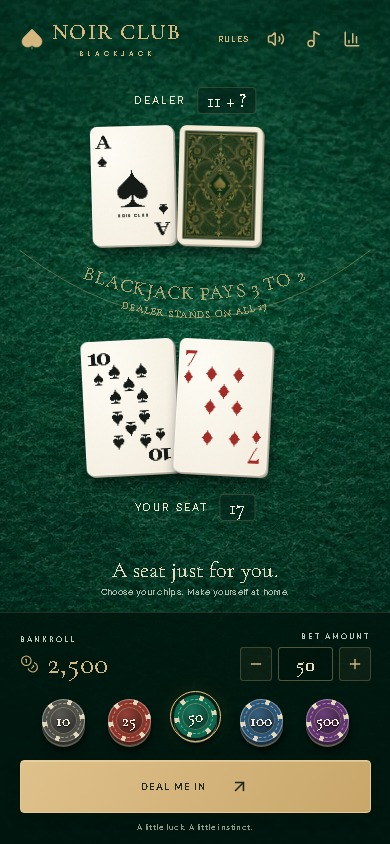
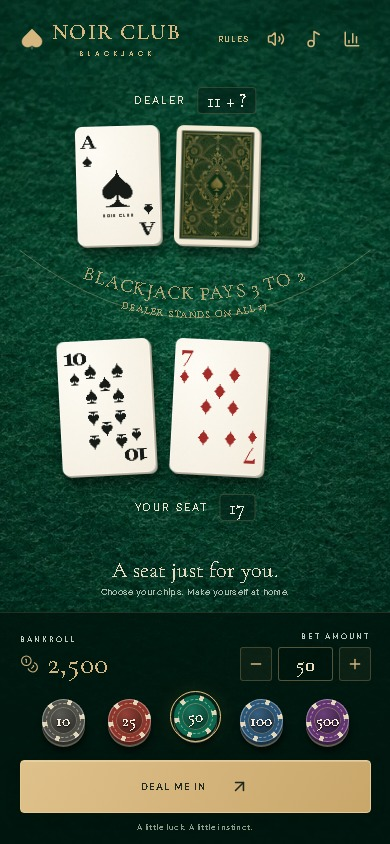
Render one card face during flips for reliable Safari support

Changed region(s): [[0.1846, 0.1232, 0.6769, 0.3081], [0.1231, 0.4005, 0.5231, 0.5853], [0.4923, 0.4005, 0.7077, 0.5853]]

diff --git a/src/components/Cards.tsx b/src/components/Cards.tsx
@@ -128,6 +128,25 @@ export function PlayingCard({
   delay?: number;
   animate?: boolean;
 }) {
+  const [showBack, setShowBack] = useState(Boolean(hidden));
+  const [flipping, setFlipping] = useState(false);
+  const previousHidden = useRef(Boolean(hidden));
+  useEffect(() => {
+    const nextHidden = Boolean(hidden);
+    if (nextHidden === previousHidden.current) return;
+    previousHidden.current = nextHidden;
+    if (window.matchMedia('(prefers-reduced-motion: reduce)').matches) {
+      setShowBack(nextHidden);
+      return;
+    }
+    setFlipping(true);
+    const midpoint = setTimeout(() => setShowBack(nextHidden), 260);
+    const end = setTimeout(() => setFlipping(false), 520);
+    return () => {
+      clearTimeout(midpoint);
+      clearTimeout(end);
+    };
+  }, [hidden]);
   return (
     <div
       className={`playing-card ${animate ? 'arriving' : ''}`}
@@ -135,9 +154,8 @@ export function PlayingCard({
       role="img"
       aria-label={hidden ? 'Face-down card' : `${card.rank} of ${card.suit}`}
     >
-      <div className={`card-flipper ${hidden ? 'is-hidden' : ''}`}>
-        <Face card={card} />
-        <div className="card-back" />
+      <div className={`card-flipper ${flipping ? 'is-flipping' : ''}`}>
+        {showBack ? <div className="card-back" /> : <Face card={card} />}
       </div>
     </div>
   );

diff --git a/tests/game.spec.ts b/tests/game.spec.ts
@@ -78,6 +78,8 @@ test('deal, double, settlement, tracker, CSV and reload persistence', async ({ p
   await expect(page.getByRole('button', { name: 'Double', exact: true })).toBeEnabled();
   await page.getByRole('button', { name: 'Double', exact: true }).click();
   await expect(page.locator('.app')).toHaveAttribute('data-phase', 'settled');
+  await expect(page.locator('.dealer-hand .card-back')).toHaveCount(0);
+  await expect(page.locator('.dealer-hand .card-face')).toHaveCount(2);
   expect((await saved(page)).balance).toBe(2600);
   await tracker(page);
   await expect(page.getByRole('dialog')).toBeVisible();
@@ -100,6 +102,9 @@ test('split hands remain above felt and inside the safe table during animation',
   await monitorCards(page);
   await page.getByRole('button', { name: 'Deal me in' }).click();
   await assertMotion(page);
+  await expect(page.locator('.player-hand .card-face')).toHaveCount(2);
+  await expect(page.locator('.player-hand .card-back')).toHaveCount(0);
+  await expect(page.locator('.dealer-hand .card-back')).toHaveCount(1);
   await monitorCards(page);
   await page.getByRole('button', { name: 'Split', exact: true }).click();
   await assertMotion(page);

diff --git a/src/styles.css b/src/styles.css
@@ -290,19 +290,25 @@ nav {
   width: 100%;
   height: 100%;
   position: relative;
-  transform-style: preserve-3d;
-  transition: transform 0.55s cubic-bezier(0.25, 0.6, 0.25, 1);
 }
-.card-flipper.is-hidden {
-  transform: rotateY(180deg);
+.card-flipper.is-flipping {
+  animation: reveal-card 520ms ease-in-out;
+}
+@keyframes reveal-card {
+  0%,
+  100% {
+    transform: scaleX(1);
+  }
+  49%,
+  51% {
+    transform: scaleX(0.025);
+  }
 }
 .card-face,
 .card-back {
   position: absolute;
   inset: 0;
   border-radius: 7px;
-  backface-visibility: hidden;
-  -webkit-backface-visibility: hidden;
   box-shadow:
     inset 0 0 0 1px #fff7,
     1px 1px 0 #b9b4a5,
@@ -326,7 +332,6 @@ nav {
   color: #a32c28;
 }
 .card-back {
-  transform: rotateY(180deg);
   border: 5px solid #f4ebd7;
   background: #063b2c url('/assets/card-back.webp') center/100% 100% no-repeat;
 }

diff --git a/docs/verification.md b/docs/verification.md
@@ -30,6 +30,8 @@ The built-in browser was used first to play a hand, inspect the table, and inspe
 
 The implementation was verified against the concept's visual direction with the intentional adaptations below. No material clipping, overlapping controls or broken interactions remained in the checked states.
 
+The WebKit screenshot review caught a compositing difference that rendered a rotated card back over the face. Card reveals now animate a single visible face with a timed edge-on swap, avoiding 3D backface compositing. Both browser screenshots and face/reveal assertions were checked again after this repair.
+
 Above-the-fold copy audit: brand, rules, payouts, dealer and player labels, bankroll, denominations and actions are retained. Intentional additions are the current-turn message, virtual-credit label, fresh-seat greeting and private-table note. The idle screen uses “Your seat” and “Deal me in”; active play uses the four action buttons. The concept's illustrative 24 hands and 54% win rate are replaced by real zero-history stats.
 
 Other intentional adaptations: accurate native card faces and stylized court cards; generated ornate card-back artwork; native chip controls; compact inline totals; responsive card spacing. These choices preserve accessible ranks, accurate pips and a usable mobile layout. The concept is a design reference, not a literal image embedded as an interface.
